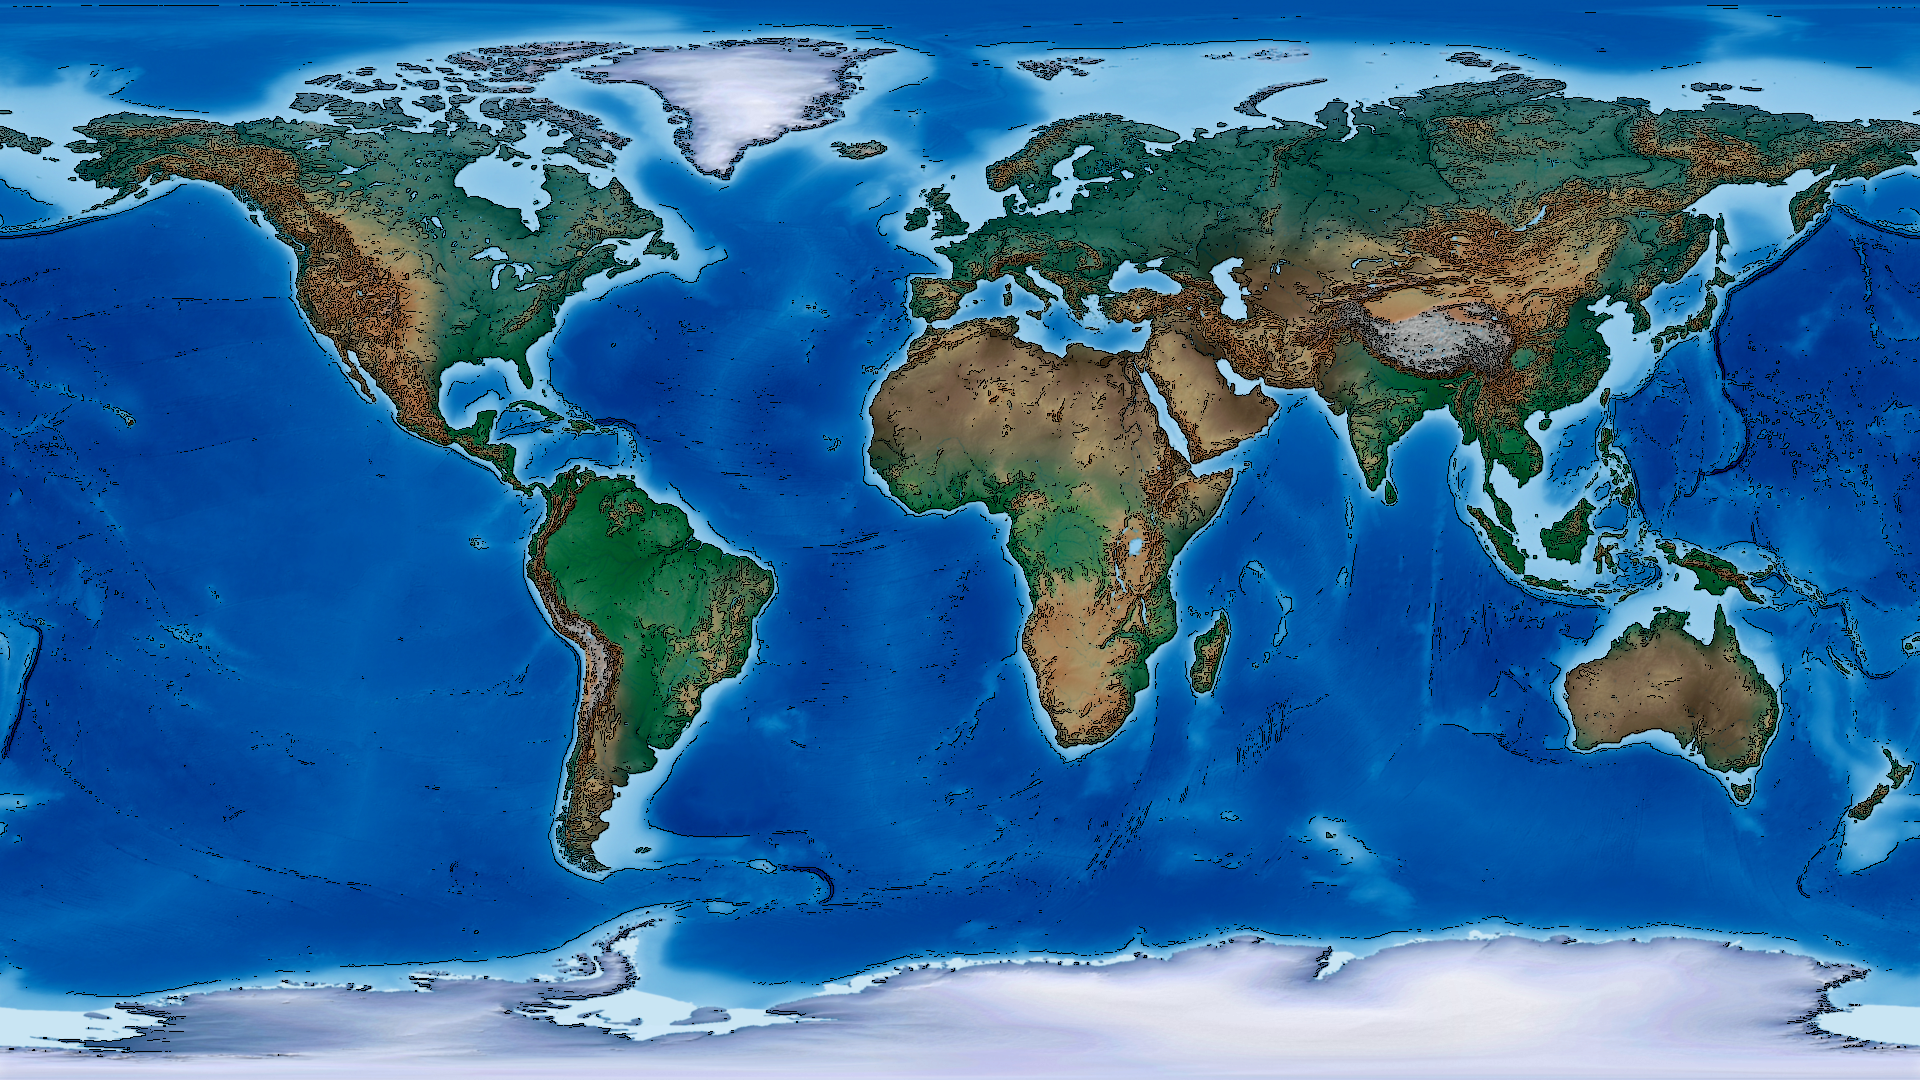
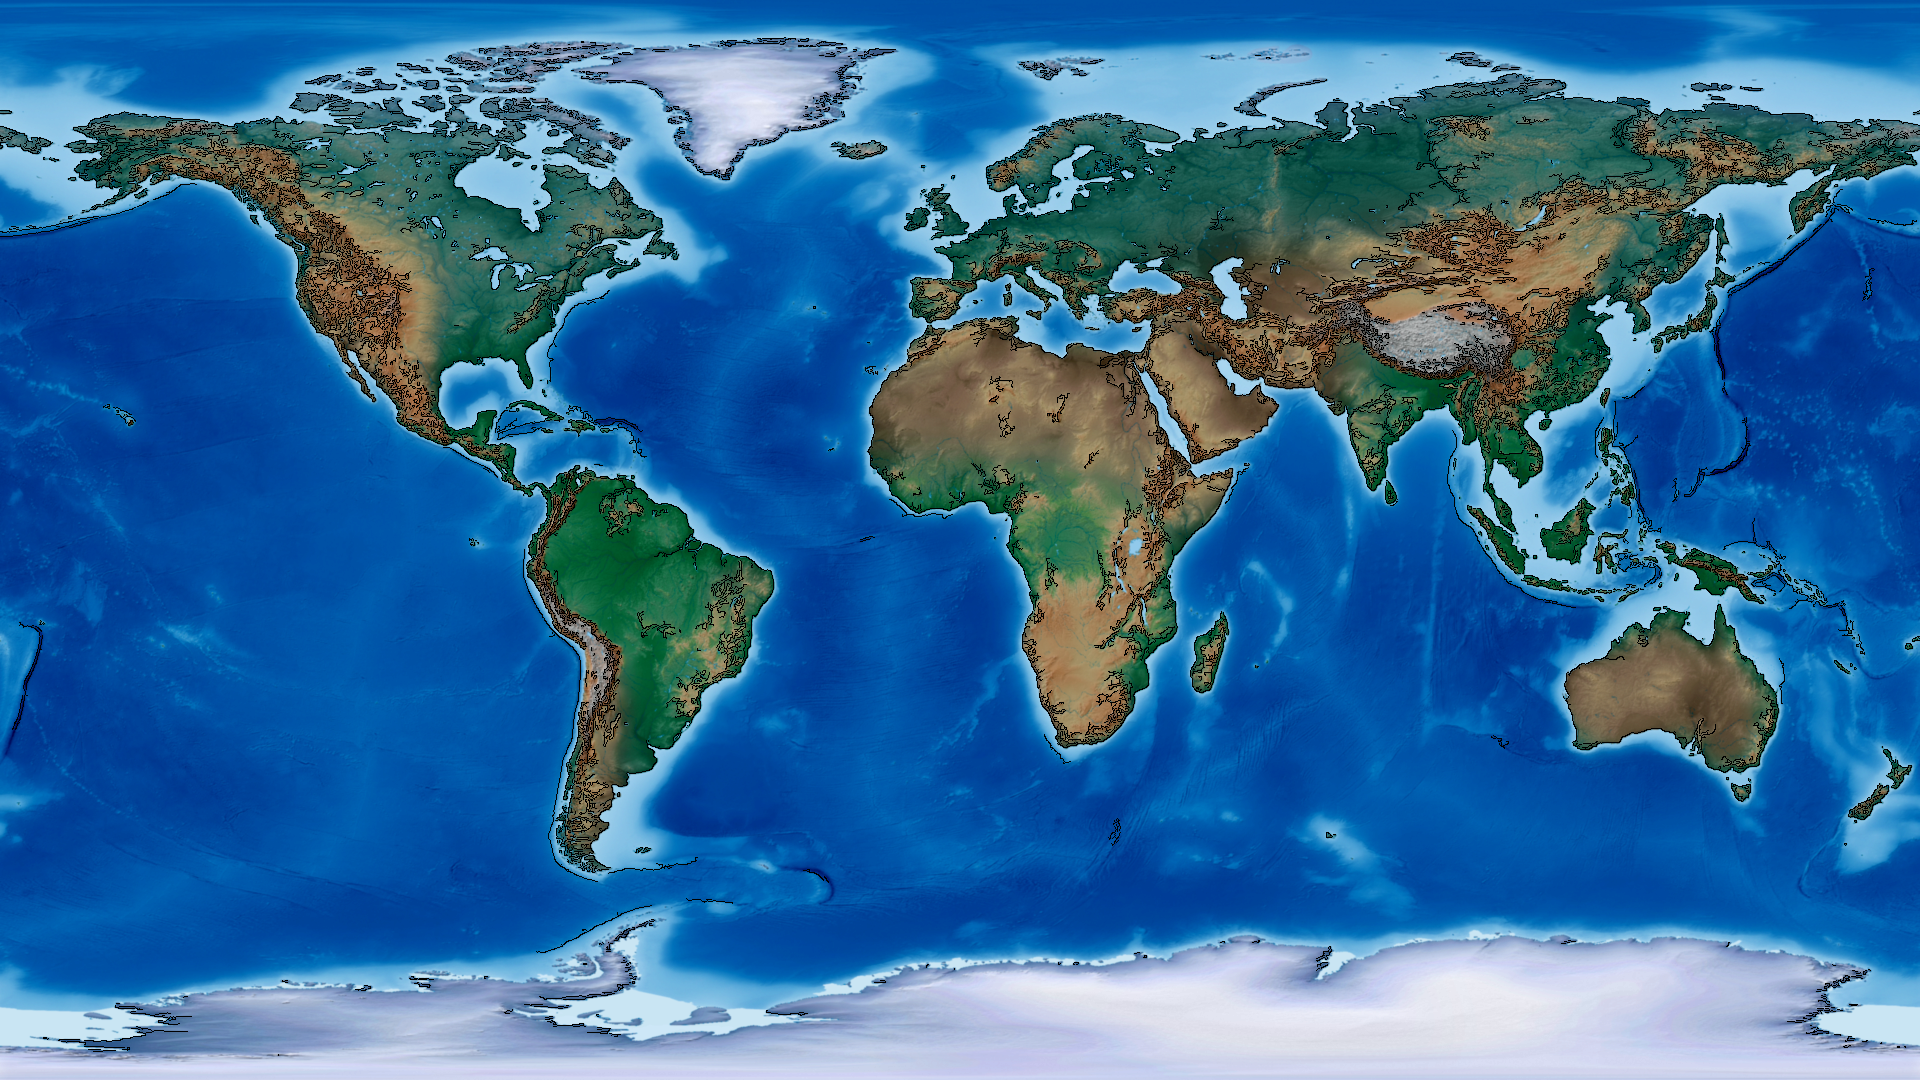
update

diff --git a/README.md b/README.md
@@ -10,7 +10,15 @@ Use `gdalwarp` to convert geotiff to regular tiff for use with imagemagick.
 
 Crop image.
 
-```convert -gravity center largeprint_kdp-page077.png -crop 1940x600+0+0 +repage largeprint_kdp-page077_1940x600.png```
+```convert largeprint_kdp-page077.png -gravity center -crop 1940x600+0+0 +repage largeprint_kdp-page077_1940x600.png```
+
+Crop image while maintaining aspect ratio with `geometry` option.
+
+```convert largeprint_kdp-page077.png -gravity center -geometry 1940x600^ -crop 1940x600+0+0 +repage largeprint_kdp-page077_1940x600.png```
+
+Resize all image files.
+
+```ls *.png | while read file; do convert -resize 25% ${file} ${file%.*}.jpg; done```
 
 Adjust levels to enhance colors of Natural Earth's hypsometric raster.
 
@@ -33,16 +41,12 @@ Resize, adjust levels and composite rasters (with background canvas) in one comm
 
 Add a sketch effect with a canny edge detection layer with or without the original image.
 
-```convert layer0.png -level 50%,100% -modulate 200 -canny 0x0+10%+10% -negate layer0_canny.png```
+```convert layer0.png -level 50%,100% -modulate 200 -canny 0x0+5%+30% -negate layer0_canny.png```
 
-```convert layer0.png -level 50%,100% \( +clone -modulate 200 -canny 0x0+10%+10% -negate \) -compose multiply -composite layer0_plus_canny.png```
+```convert layer0.png -level 50%,100% \( +clone -modulate 200 -canny 0x0+5%+30% -negate \) -compose multiply -composite layer0_plus_canny.png```
 
 <img src="images/layer0_canny.jpg"/>
 <img src="images/layer0_plus_canny.jpg"/>
-
-Resize all image files.
-
-```ls *.png | while read file; do convert -resize 25% ${file} ${file%.*}.jpg; done```
 
 Make a gif from a folder of files.
 
